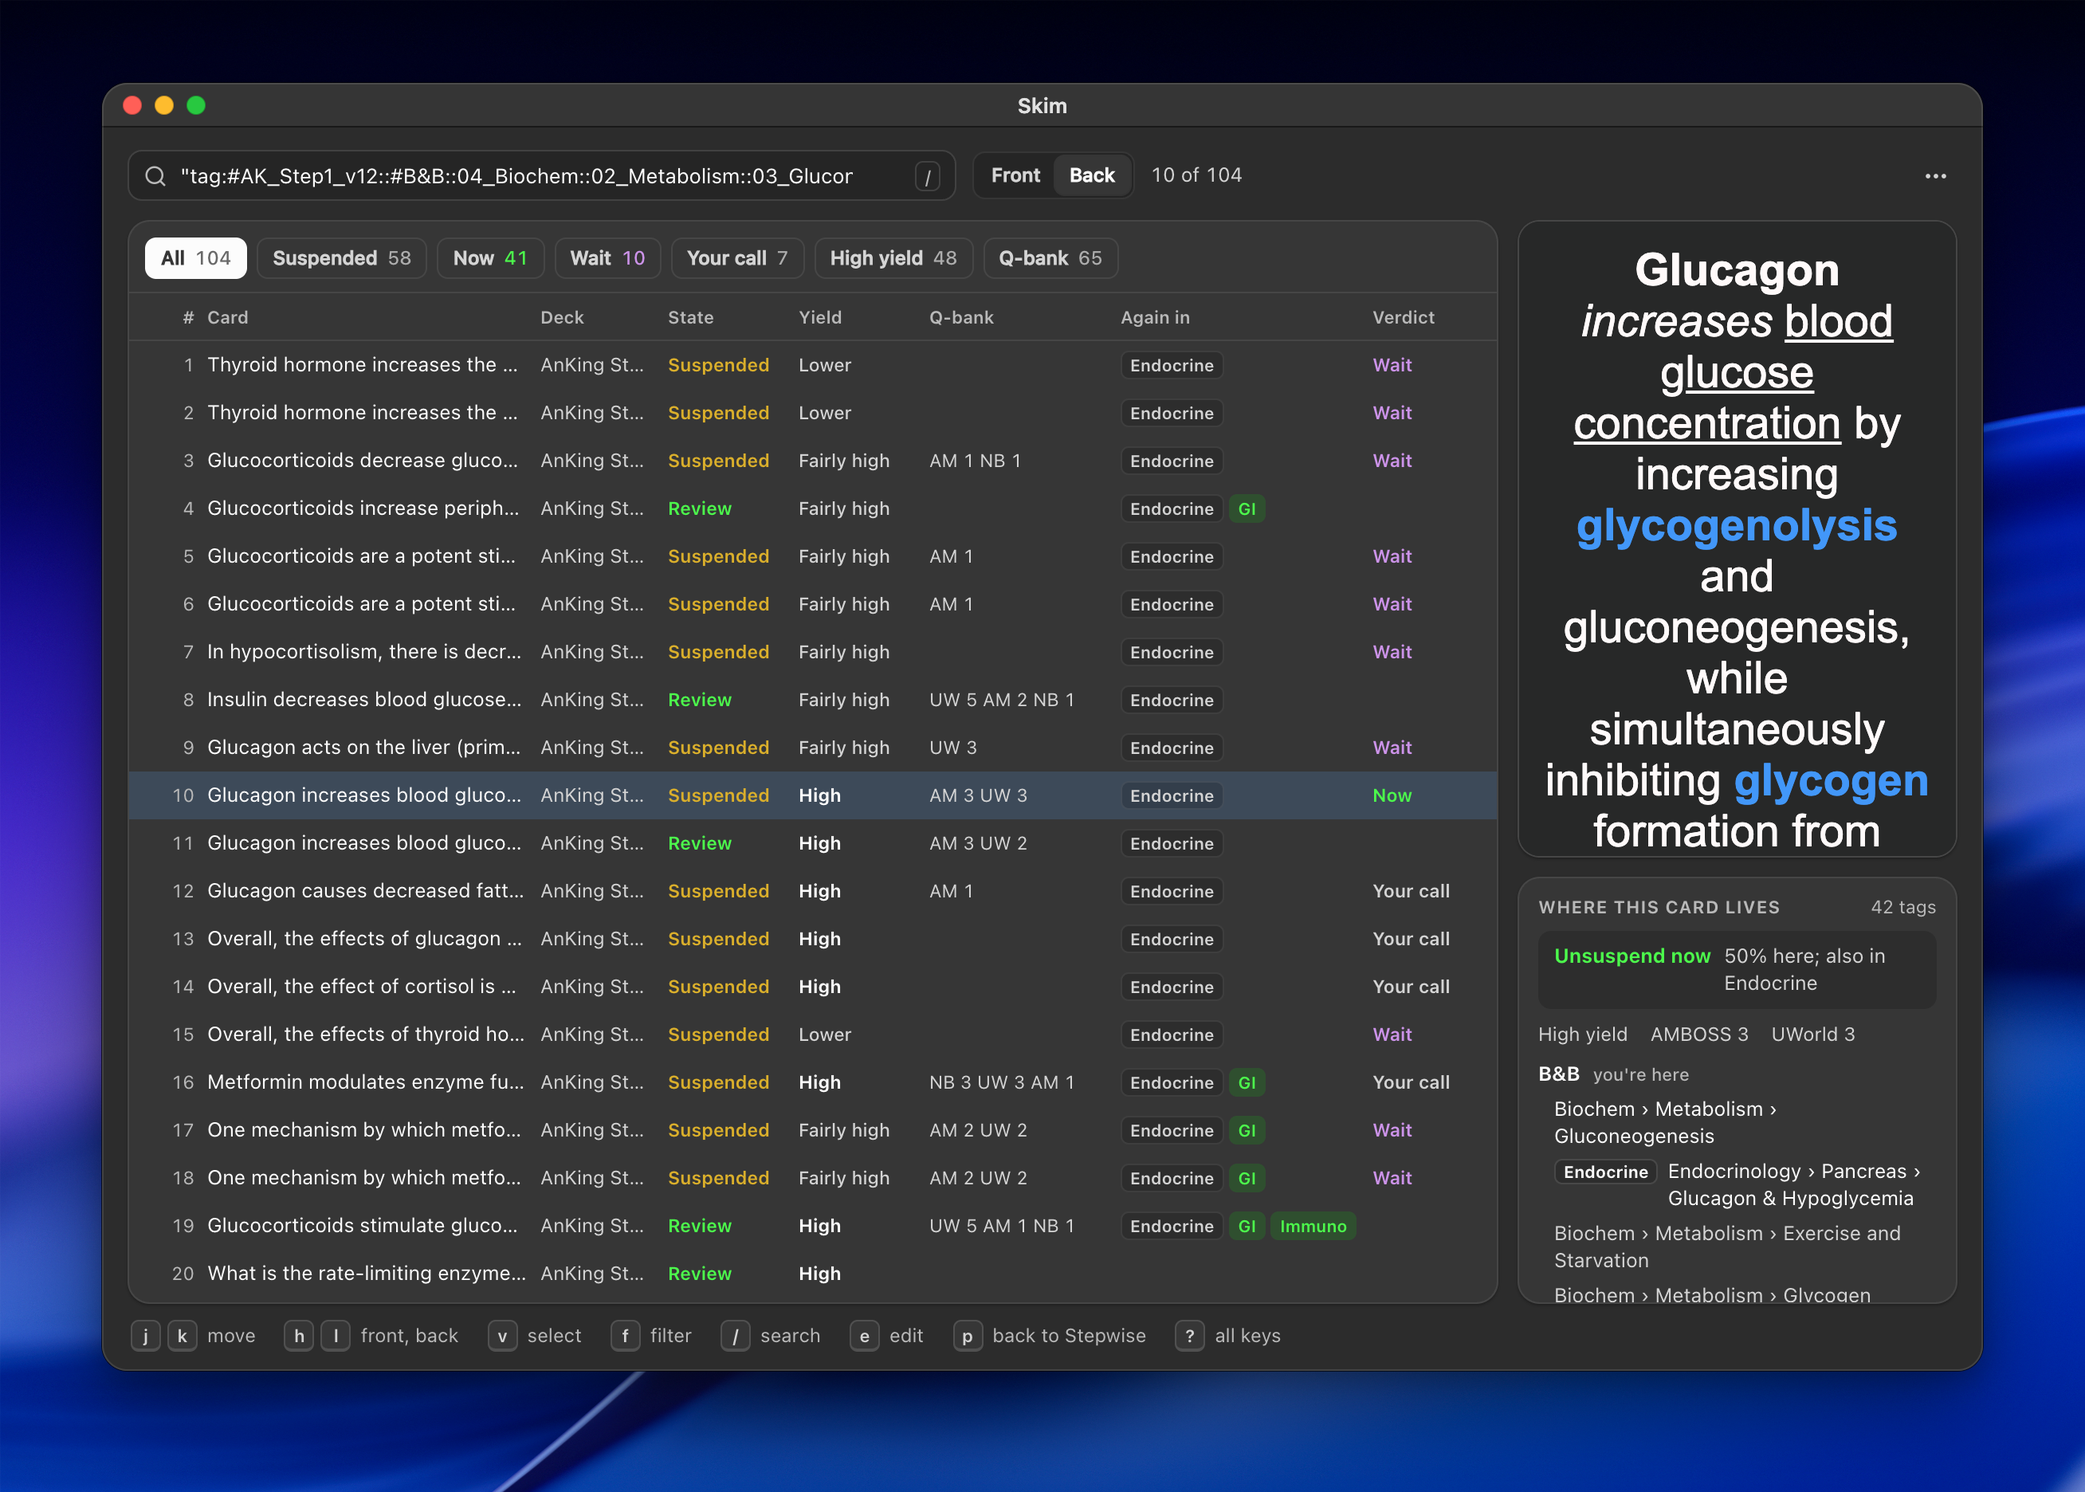
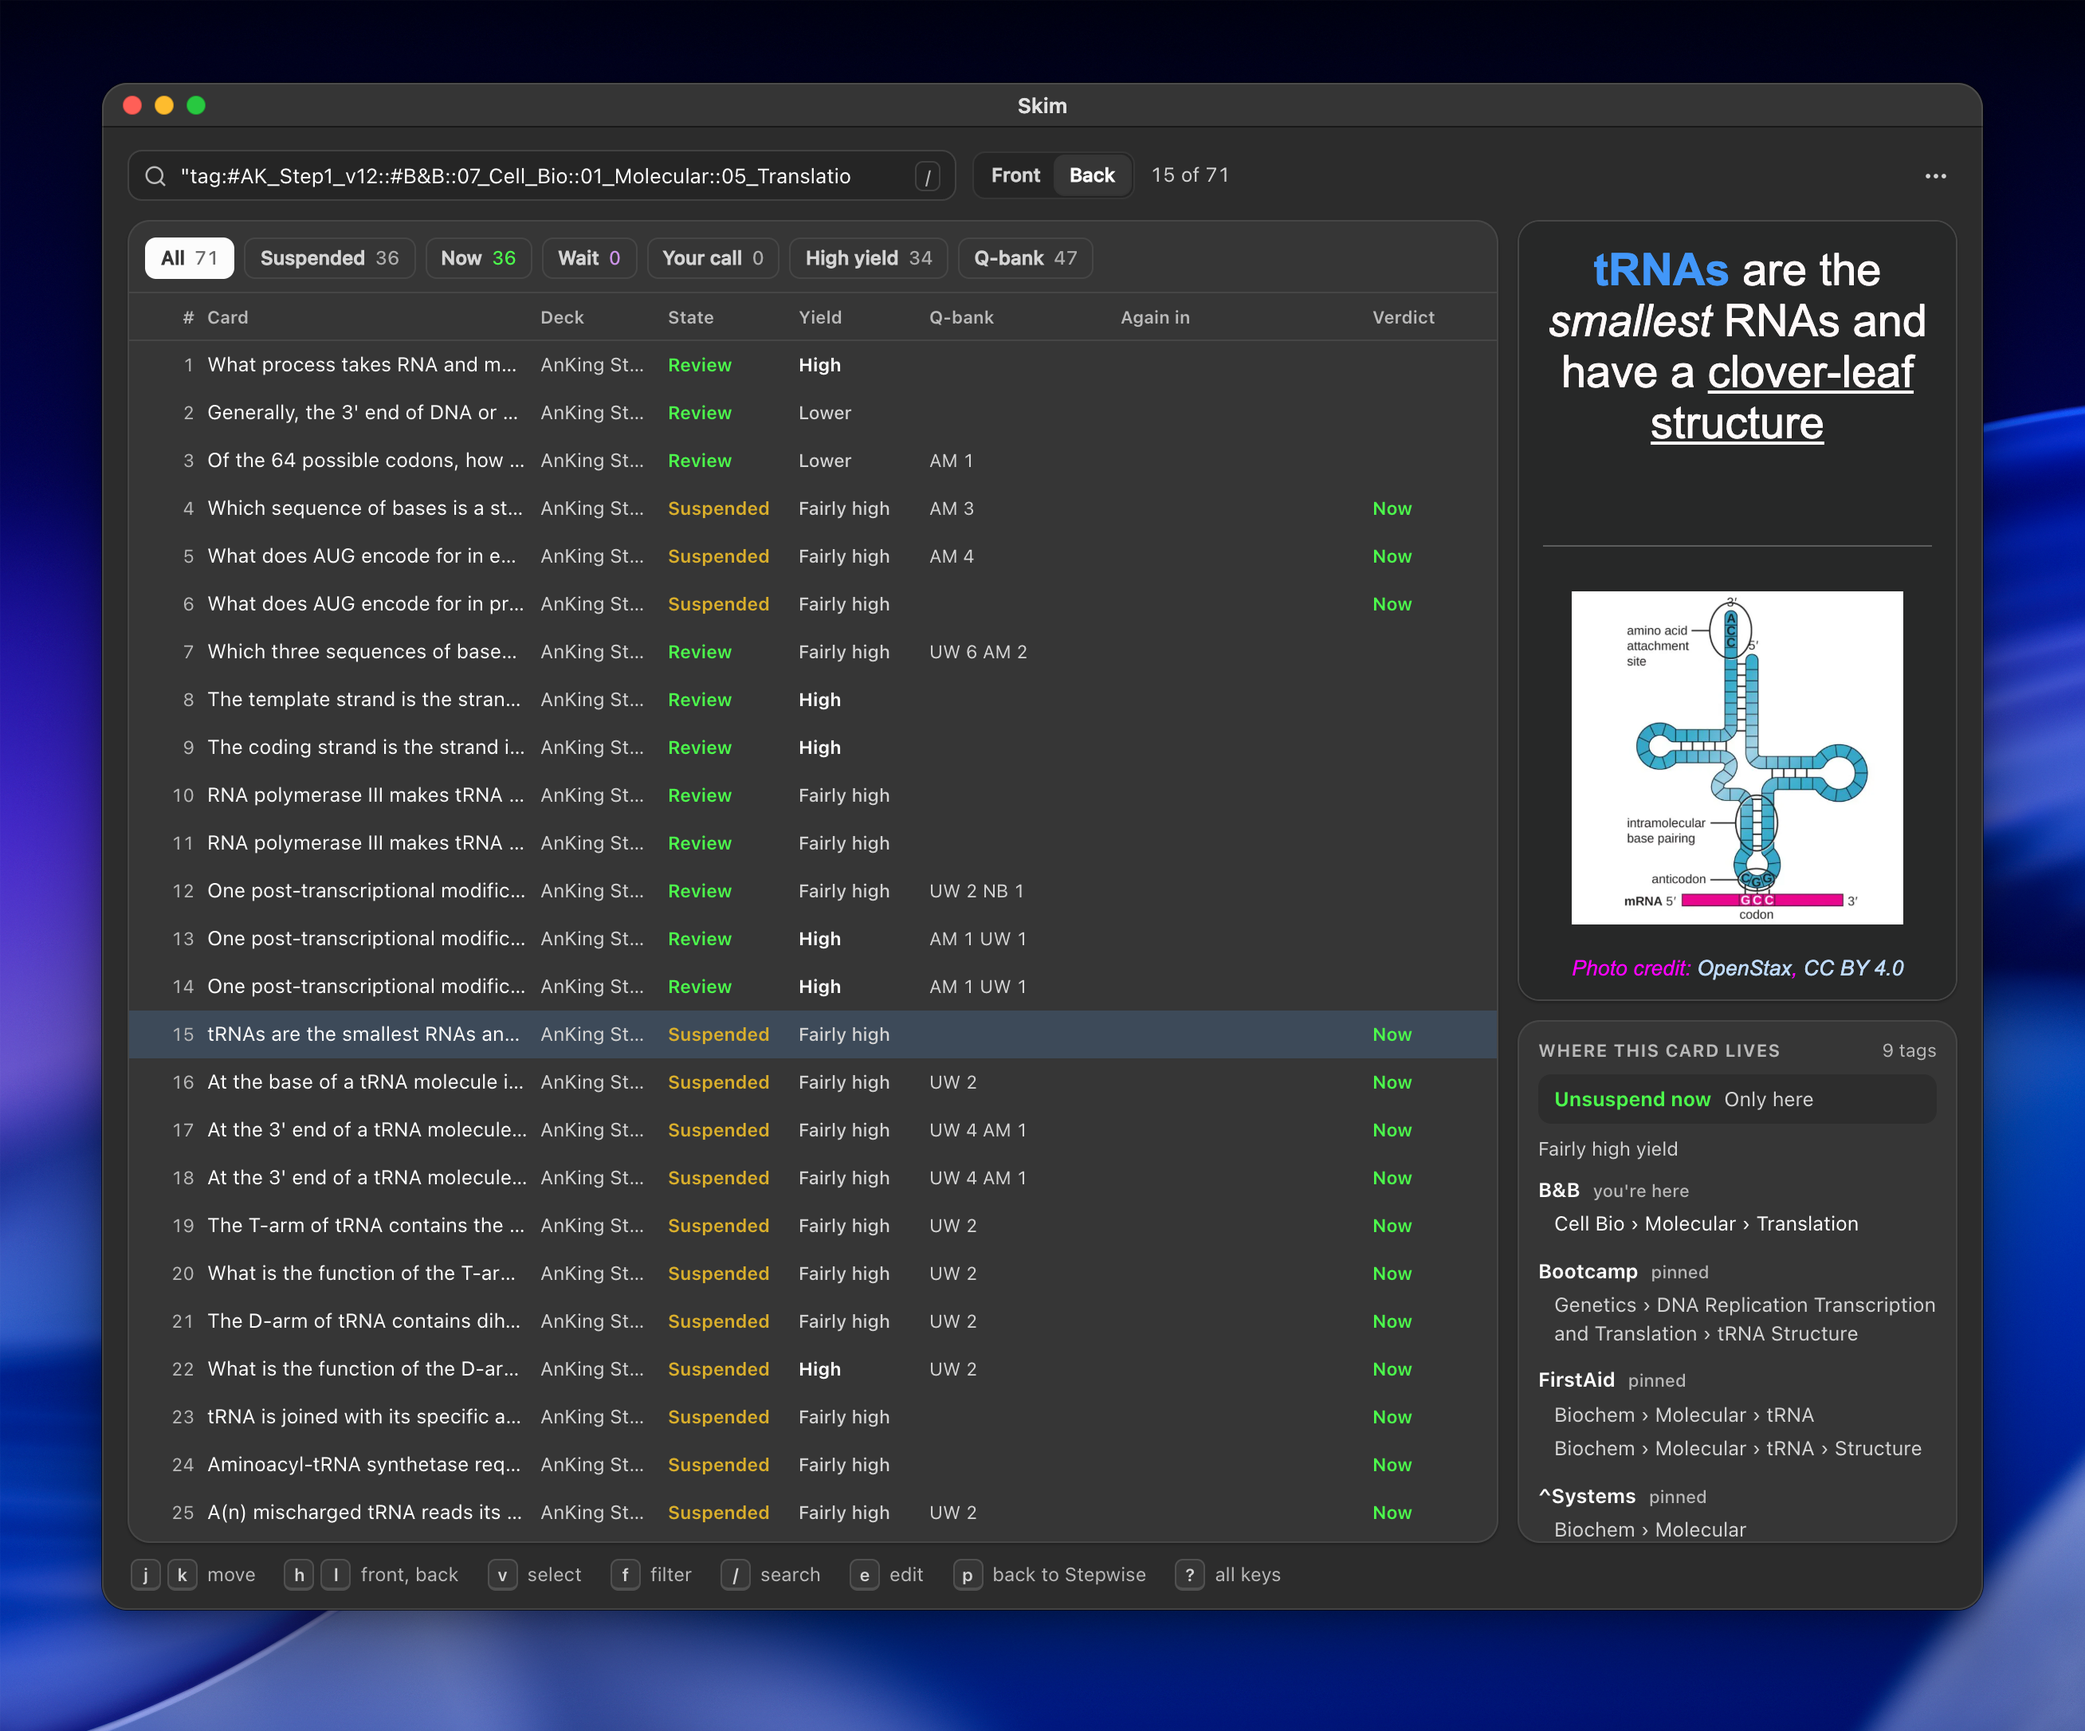
docs: show a card with a diagram in the screenshot
The screenshot now shows the B&B Translation topic, full of suspended
cards and their Now verdicts, at the tRNA card: a clover-leaf diagram
(OpenStax, CC BY 4.0, credited on the card) that Skim says to unsuspend
now. tools/screenshots.py finds the card by its text instead of its row
number, which shifts as AnKing's deck changes, and makes the window
1180x930, taller than its default, so the diagram and its credit show
whole. Most image cards' large text pushes the picture out of the card
pane, and many topics have no suspended cards left to show verdicts.

diff --git a/tools/screenshots.py b/tools/screenshots.py
@@ -3,9 +3,13 @@
 
     python3 tools/screenshots.py [--collection PATH] [--stepwise PATH] [--capture-wallpaper | --wallpaper PATH]
 
-Writes docs/screenshot.png: Skim's window at its default size, on a B&B
-topic (TOPIC) with its now/wait verdicts, at a card it would unsuspend now
-(CARD). The page comes from tools/devserver.py, run with Anki's own Python
+Writes docs/screenshot.png: Skim's window on a B&B topic (TOPIC) full of
+suspended cards and their verdicts, at one with a picture that Skim says to
+unsuspend now (CARD, found by its text): "tRNAs are the smallest RNAs and
+have a clover-leaf structure", a real AnKing card (note 1467927195193, so
+anyone's copy of the deck has it) whose diagram is OpenStax's, CC BY 4.0,
+credited on the card. The window is taller than its default 1180x780, so
+the diagram and its credit show whole. The page comes from tools/devserver.py, run with Anki's own Python
 (ANKI_PYTHON, or the launcher's) on a copy of a collection: the Default
 profile's unless --collection names another, with the media folder beside
 it. The collection itself is never touched. Verdicts follow Stepwise's
@@ -31,9 +35,9 @@ KIT = os.environ.get("ANKI_ADDON_KIT", os.path.join(os.path.dirname(ROOT), "anki
 sys.path.insert(0, os.path.join(KIT, "screenshots"))
 import shots  # noqa: E402
 
-SIZE = (1180, 780)  # the window's default size (src/window.py)
-TOPIC = "#AK_Step1_v12::#B&B::04_Biochem::02_Metabolism::03_Gluconeogenesis"
-CARD = 10  # its row: glucagon raising blood glucose, which Skim says to unsuspend now
+SIZE = (1180, 930)  # the default width (src/window.py), taller so the card's diagram shows whole
+TOPIC = "#AK_Step1_v12::#B&B::07_Cell_Bio::01_Molecular::05_Translation"
+CARD = "tRNAs are the smallest RNAs"  # its row's text
 STEPWISE = os.path.join(os.path.dirname(ROOT), "anki-stepwise", "src", "meta.json")
 SETUP = """(async () => {
   const sleep = (ms) => new Promise((r) => setTimeout(r, ms));
@@ -41,13 +45,15 @@ SETUP = """(async () => {
     e.children.length === 0 && /^\\d+ of \\d+$/.test(e.textContent.trim()));
   for (let i = 0; i < 100 && !counter(); i++) await sleep(100);
   if (!counter()) throw new Error('no card counter: did the page load?');
-  for (const key of [...String(%(card)d), 'G'])
-    document.documentElement.dispatchEvent(new KeyboardEvent('keydown', {key, bubbles: true}));
-  await sleep(600);
-  const at = counter().textContent.trim();
-  if (!at.startsWith('%(card)d of ')) throw new Error('not at card %(card)d: ' + at);
+  // Down the list with j until the current row is the card.
+  const here = () => (document.querySelector('.row.cur')?.textContent ?? '').includes(%(card)s);
+  for (let i = 0; i < 500 && !here(); i++) {
+    document.documentElement.dispatchEvent(new KeyboardEvent('keydown', {key: 'j', bubbles: true}));
+    await sleep(40);
+  }
+  if (!here()) throw new Error('no row with ' + %(card)s);
   await sleep(2500);  // the keys pressed fade from the corner, and the card's frame settles
-  return at;
+  return counter().textContent.trim() + ': ' + document.querySelector('.row.cur').textContent;
 })()"""
 
 
@@ -71,7 +77,7 @@ def main() -> None:
         try:
             shots.wait_for(f"http://127.0.0.1:{port}/", timeout=90)
             s.capture([{"url": f"http://127.0.0.1:{port}/?theme=dark", "width": SIZE[0], "height": SIZE[1],
-                        "setup": SETUP % {"card": CARD}, "wait": 300, "out": "skim.png",
+                        "setup": SETUP % {"card": json.dumps(CARD)}, "wait": 300, "out": "skim.png",
                         "result": s.path("skim.json")}])
         finally:
             dev.terminate()

diff --git a/docs/ankiweb-listing.md b/docs/ankiweb-listing.md
@@ -39,9 +39,14 @@ before each release.
 ## Screenshot
 
 `docs/screenshot.png`, made by `tools/screenshots.py` with the add-ons'
-shared screenshot tools: Skim's window on the B&B gluconeogenesis topic from
-the Default profile's collection (a copy), at a card it would unsuspend now,
-with Stepwise's pinned resources. Rerun it after the window changes.
+shared screenshot tools: Skim's window on the B&B Translation topic from the
+Default profile's collection (a copy), with Stepwise's pinned resources, at
+the tRNA card (a clover-leaf diagram, OpenStax, CC BY 4.0, credited on the
+card), which it says to unsuspend now. The window is 1180x930, taller than
+its default, so the diagram and its credit show whole. Chosen on 2026-11-17
+from the B&B cards with openly licensed images: most cards' large text
+pushes their picture out of the card pane, and many topics have no
+suspended cards left to show verdicts. Rerun it after the window changes.
 
 ## Description
 
@@ -56,7 +61,7 @@ A card browser for Anki that keeps up with your keys, and helps you decide what 
 
 **Code: 2141626960.** Paste it in Anki under **Tools → Add-ons → Get Add-ons**.
 
-<p><img src="https://raw.githubusercontent.com/AIbrahimv2/AnkiSkim/main/docs/screenshot.png" alt="Skim on a B&amp;B topic: a table of its cards with their state, yield, question banks, the other systems they come up in and a now or wait verdict, beside the card and where it's tagged" width="100%"></p>
+<p><img src="https://raw.githubusercontent.com/AIbrahimv2/AnkiSkim/main/docs/screenshot.png" alt="Skim on a B&amp;B topic: a table of its cards with their state, yield, question banks and verdicts, beside a card with a tRNA diagram that Skim says to unsuspend now, and where it's tagged" width="100%"></p>
 
 **Features**
 

diff --git a/README.md b/README.md
@@ -11,7 +11,7 @@ It pairs with [Stepwise](https://github.com/AIbrahimv2/AnkiStepwise): press
 `b` on a topic there to see its cards here, and Skim follows as you move
 through topics.
 
-<img src="docs/screenshot.png" width="100%" alt="Skim on a B&amp;B topic: a table of its cards with their state, yield, question banks, the other systems they come up in and a now or wait verdict, beside the card and where it's tagged">
+<img src="docs/screenshot.png" width="100%" alt="Skim on a B&amp;B topic: a table of its cards with their state, yield, question banks and verdicts, beside a card with a tRNA diagram that Skim says to unsuspend now, and where it's tagged">
 
 ## Features
 
